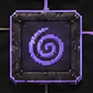
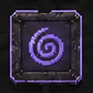
Corrige le bout de ligne orphelin sous le nœud central de l'Arbre du Chaos
node_core.png gardait, cuits en dur depuis la capture de référence,
les 4 bouts de connecteurs de l'ancienne disposition à 4 branches ; le
bout correspondant à l'aile désormais vacante ne menait plus nulle
part. Les 4 bouts sont repeints avec un correctif issu du fond propre
de la tuile elle-même, cadre et spirale intacts.

Claude-Session: https://claude.ai/code/session_016yAC6ssaf6BSe8MTXBU3RM

diff --git a/README.md b/README.md
@@ -25,6 +25,8 @@ Reconstruction indépendante, pas un portage automatique : le rendu canvas, le H
   **Retrait de contenu, pas seulement visuel cette fois** : l'aile gauche de l'arbre (branche `flood` — Ruisseau agité → Berges fragiles → Crue montante → Rupture de digue → Inondation) retirée sur demande directe pointant la capture d'écran, en gardant le haut (pluie) et les deux autres ailes (orage, vent) — confirmé explicitement avant d'agir plutôt que deviné, la formulation initiale ne nommant pas l'aile du bas parmi ce qui restait. Un seul fichier touché (`game_data.gd`) : les 5 nœuds `flood_*` et l'entrée `"flood"` de `BRANCH_ANGLES` retirés d'`UPGRADE_TREE` ; `chaos_tree_overlay.gd`/`tree_lines_layer.gd`/`game_state.gd` n'ont eu besoin d'aucun changement, les trois itèrent déjà depuis `UPGRADE_TREE` comme seule source de vérité plutôt que depuis une sauvegarde — vérifié avant de toucher au fichier, pas supposé : `load_game()` ne recopie l'état sauvegardé d'un nœud que pour les ids encore présents dans `UPGRADE_TREE`, donc une sauvegarde existante avec des achats `flood_*` voit simplement cette donnée orpheline ignorée au prochain chargement, sans plantage. La catastrophe "flood" elle-même (`GameData.DISASTERS`, dock/popover, débloquage, objectif associé) n'est pas touchée — seule la branche de l'Arbre du Chaos disparaît, pas la catastrophe qu'elle bonifiait. **Poussé, pas encore vérifié.**
 
   Rotation des 3 ailes restantes précisée ensuite, branche par branche plutôt que laissée au choix ("le haut va à gauche, la droite va en haut, le bas va à droite") : `BRANCH_ANGLES` passe de `{wind: 0, rain: -90, storm: 90}` à `{wind: -90, rain: 180, storm: 0}` — pluie (était en haut) à gauche, vent (était à droite) en haut, orage (était en bas) à droite, laissant le vide en bas plutôt qu'à gauche. Vérifié par calcul direct (`cos`/`sin` des nouveaux angles) que chaque branche atterrit bien où demandé avant de pousser. **Poussé, pas encore vérifié.**
+
+  Signalé ensuite comme un problème sur le nœud central précisément, capture à l'appui : un petit trait qui pendait sous le nœud, relié à rien. Cause trouvée en inspectant les pixels réels de `node_core.png` plutôt qu'en devinant : la référence dont cette tuile a été recadrée montrait encore les 4 branches d'origine (vent/pluie/orage/crue) câblées au nœud central, donc les 4 bouts de ligne qui touchaient son cadre dans la capture se sont retrouvés cuits en dur dans le recadrage, un par bord. Trois des quatre retombaient par coïncidence sur une branche encore présente après le retrait/la rotation ci-dessus (redondant avec les lignes dessinées dynamiquement par `TreeLinesLayer`, mais discret) ; le 4e — l'ancienne aile du bas, aujourd'hui l'emplacement vacant — ne menait plus nulle part, d'où le signalement. Corrigé à la source : les 4 bouts de ligne repeints dans `node_core.png` avec un correctif recopié depuis le fond de la tuile elle-même (coin propre, sans bout de ligne), cadre en pierre taillée et spirale intacts, la connectivité affichée ne dépendant plus que des lignes dynamiques — comme `node_frame.png`/`node_locked.png`, vérifiés indemnes du même défaut (tuile générique recadrée à un endroit touché par au plus une ligne, contrairement au nœud central, unique en son genre). **Poussé, pas encore vérifié.**
 - [x] Rendu du village statique (`scripts/world/`) : ciel, collines, sol, route (jusqu'en bas de l'écran), 5 maisons, 5 arbres, puits, clôture, lampadaire, moulin, buissons, parterres de fleurs — disposition et proportions portées fidèlement depuis `render.js` (même layout fractionnel), rendu à basse résolution logique puis mis à l'échelle sans lissage pour garder le style pixel art. **Disposition vérifiée en jeu : fonctionne, aucune correction nécessaire.** Les sapins (type `pine` de `tree_sprite.gd`) ont été retirés de la scène sur demande — leur feuillage à 3 étages ne donnait pas un rendu satisfaisant en plein vent malgré plusieurs itérations ; seuls les arbres ronds restent. Le code du type `pine` est toujours dans `tree_sprite.gd`, juste plus instancié dans `world_scene.gd`.
   **Refonte du décor pour la cohérence visuelle avec les maisons** (`palette.gd`, `background_layer.gd`, `tree_sprite.gd`, `lamp_post_sprite.gd`) : une fois les maisons passées à de vraies images de référence peintes (`assets/houses/`), le reste du décor — resté du dessin procédural en aplats (`px_rect`/`px_circle`) — contrastait fortement. Comme il n'y a pas d'outil de génération d'images ici, impossible de fournir de vrais assets peints pour le sol/les arbres/etc. : la seule option était d'enrichir le dessin procédural lui-même (plus de nuances, formes moins géométriques, plus de détails), avec un vrai plafond de rendu par rapport à la finesse peinte des maisons — expliqué et choisi avec l'utilisateur avant de commencer. Sol : trois couches de détail (brins d'herbe multi-teintes, patches de terre/herbe sèche, cailloux) remplaçant l'unique semis clair/sombre 1px — une 4e couche de fleurs éparses (points jaunes/roses) ajoutée puis retirée sur retour utilisateur, trop voyante à l'échelle réelle. Route : bords qui ondulent légèrement au lieu d'un rectangle net, touffes d'herbe qui débordent dessus, texture de cailloux/usure au lieu des seuls tirets centraux — l'ondulation elle-même resserrée après retour utilisateur (deux sinusoïdes rapides sommées lisaient comme une route cassée/en zigzag, remplacées par une seule sinusoïde lente, moins d'un demi-cycle sur la route visible). Arbres (type `round`) : feuillage en petits amas de cercles superposés à 4 teintes au lieu d'un cercle plat par branche, un reflet d'écorce sur le tronc. Lampadaire : entièrement refait (base en pierre, mât à bandes décoratives, potence forgée, lanterne à cage + halo chaud) — n'était que 3 rectangles plats avant. Ciel : un 4e palier de dégradé (zénith) et un double halo solaire. Nuages : une calotte plus claire par bulle pour un rendu plus volumétrique. **Poussé, pas encore vérifié** — aucun accès à l'éditeur Godot pour confirmer visuellement ni mesurer l'impact sur les performances (nombre d'appels de dessin en hausse, notamment sur le sol/la route).
 
